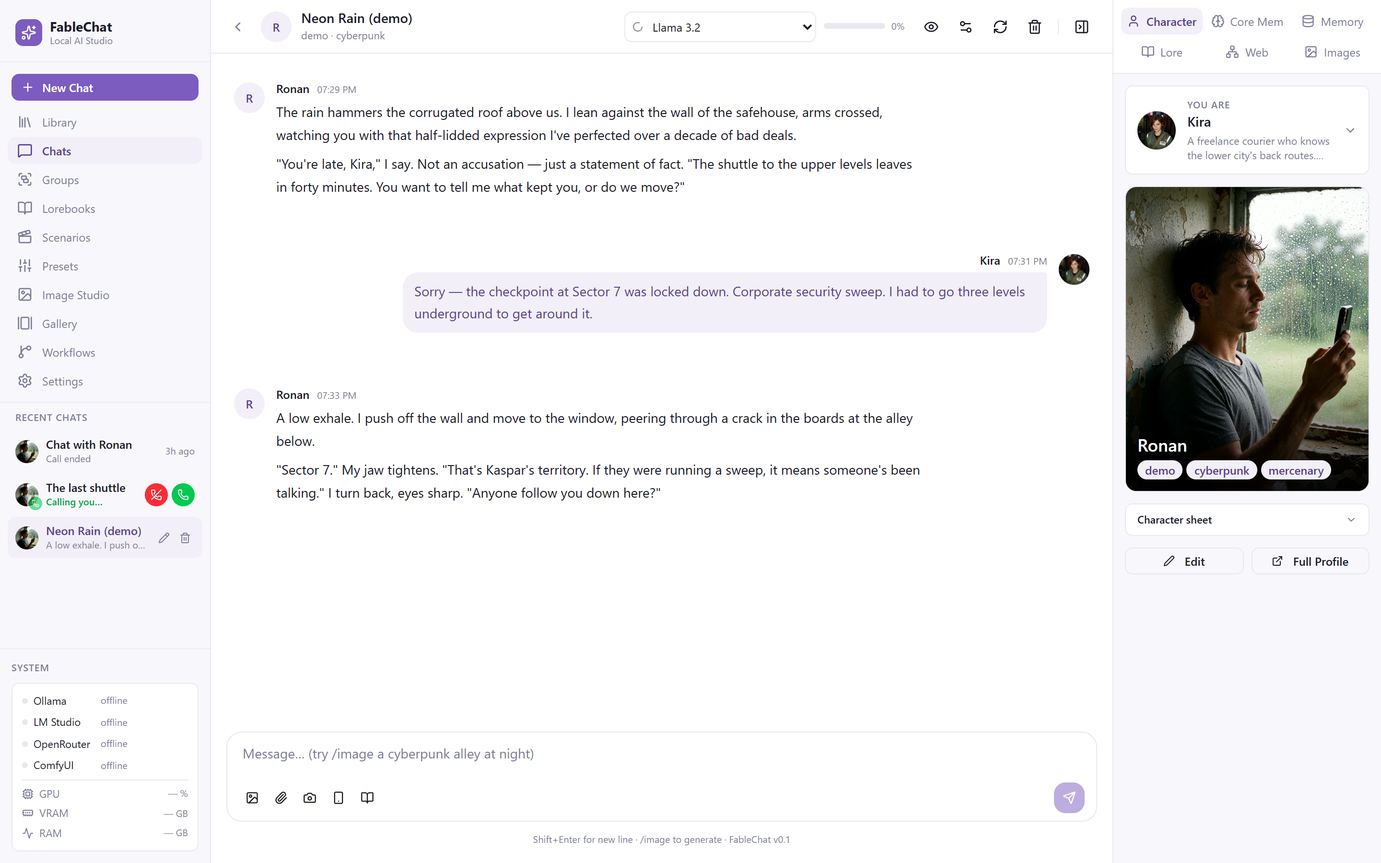
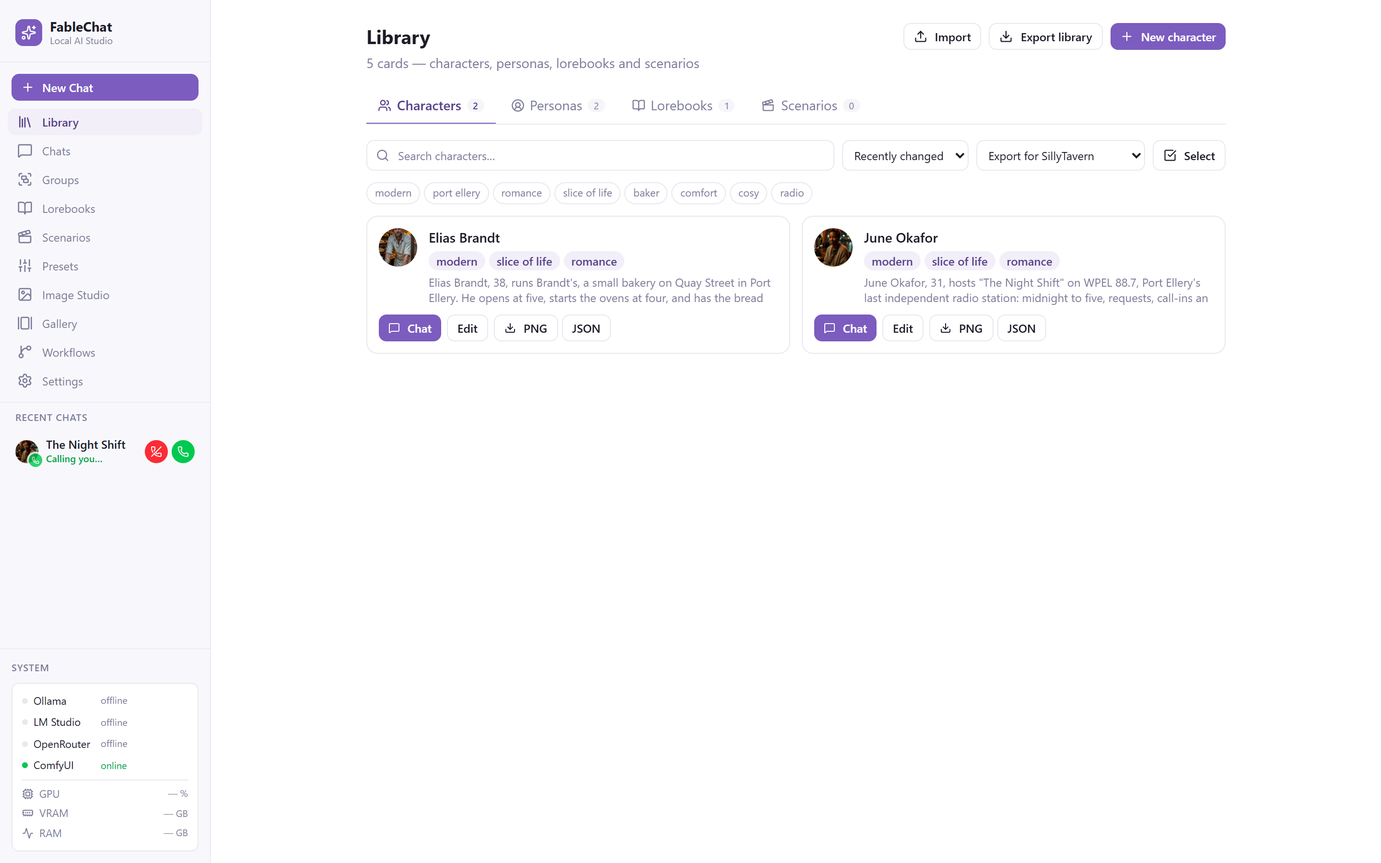
Demo story and README: the Port Ellery cast, with voices and new screenshots
A new install now opens in Port Ellery, a rainy harbour city, instead of
Lower Kaelen:
- Characters: June Okafor (a night radio host) and Elias Brandt (a baker).
- Personas: Nora Vale (a photographer) and Theo Marsh (a night nurse).
- A Port Ellery lorebook, a scenario, and a chat with June a few lines in.
Every character and persona has a demo voice, so Play works once voice is set
up. No portraits ship, as before.

Every README screenshot is retaken from the running app with this cast: the
main chat with texts, photos both ways and a call, the Library, an incoming
call on its Recent Chats row, the voice editor, memory facts (one pinned, one
locked), Core Memory, Peek Prompt, dark mode with the story web, the phone
layout, and Settings > Media with the narrator. The settings shot leaves out
the local voice folder path.

The README covers the narrator, texting from a story line and calls now and
then, and its roadmap marks voice done. plan-voice.md no longer names a local
folder.

diff --git a/lib/demo.ts b/lib/demo.ts
@@ -1,8 +1,11 @@
 // ─── Demo story ───────────────────────────────────────────────────────────────
 // What a brand-new install opens with, so the first screen is a story already
-// under way instead of an empty app: one character (with a linked lorebook), a
-// persona for the player, and a chat a few lines in. The same story the README
-// screenshots show, so the docs and the app agree.
+// under way instead of an empty app: Port Ellery, a rainy harbour city. Two
+// characters (June, a night radio host, and Elias, a baker), two personas for
+// the player (Nora and Theo), a lorebook for the city, a scenario, and a chat
+// with June a few lines in. Everyone has a demo voice, so Play works once voice
+// is set up. The same story the README screenshots show, so the docs and the
+// app agree (the screenshots add portraits, which the demo does not ship).
 //
 // Seeded once, by the sync engine, only when the server has never been written
 // to AND this tab holds nothing (see startSync). Deleting the demo is permanent:
@@ -14,26 +17,23 @@ import { expandMacros } from "@/lib/cards/tavern";
 import type { Character, Chat, Lorebook, Persona, Scenario } from "@/lib/types";
 
 export const DEMO_IDS = {
-  character: "demo-ronan",
-  persona: "demo-kira",
-  lorebook: "demo-lower-kaelen",
-  scenario: "demo-last-shuttle",
-  chat: "demo-neon-rain",
+  character: "demo-june",
+  character2: "demo-elias",
+  persona: "demo-nora",
+  persona2: "demo-theo",
+  lorebook: "demo-port-ellery",
+  scenario: "demo-last-ferry",
+  chat: "demo-night-shift",
 } as const;
 
-const GREETING =
-  "The rain hammers the corrugated roof above us. I lean against the wall of the safehouse, arms crossed, watching " +
-  "you with that half-lidded expression I've perfected over a decade of bad deals.\n\n" +
-  "\"You're late, {{user}},\" I say. Not an accusation — just a statement of fact. \"The shuttle to the upper levels " +
-  "leaves in forty minutes. You want to tell me what kept you, or do we move?\"";
+const GREETING = "*The ON AIR light hums red over the booth door. Rain runs down the window in sheets, blurring the harbour lights into long gold smears. June leans into the microphone, one hand wrapped around a mug of tea that went cold an hour ago, and lets the last notes of an old soul record fade out.*\n\n\"...and that was for Marcus, still out on the night boats. Stay dry, love.\" *She glances at the phone board. Line two is blinking, the first call in forty minutes. She pushes her glasses up into her hair and flicks the switch.*\n\n\"It's twenty past two, this is The Night Shift on 88.7, and you're on the air.\" *A pause, softer, like she's leaning closer.* \"Who's this, and what's keeping you up tonight?\"";
 
 /** The opening exchange after the greeting: [role, text]. Short, so the next line is the user's. */
 const OPENING: Array<["user" | "assistant", string]> = [
-  ["user", "Sorry — the checkpoint at Sector 7 was locked down. Corporate security sweep. I had to go three levels underground to get around it."],
+  ["user", "Hi. It's {{user}}. I'm new here, six weeks. I've listened every night since I moved in; I can't sleep with the rain on the skylight."],
   ["assistant",
-    "A low exhale. I push off the wall and move to the window, peering through a crack in the boards at the alley below.\n\n" +
-    "\"Sector 7.\" My jaw tightens. \"That's Kaspar's territory. If they were running a sweep, it means someone's been " +
-    "talking.\" I turn back, eyes sharp. \"Anyone follow you down here?\""],
+    "*She smiles at the microphone, and you can hear it.* \"{{user}}. Welcome to Port Ellery, love. You'll get used to the rain, or it'll get used to you.\" " +
+    "*She glances at the dark window, at the boats rocking under the dock lights.* \"So what do you do when you can't sleep?\""],
 ];
 
 export interface DemoStory {
@@ -45,65 +45,79 @@ export interface DemoStory {
 }
 
 /**
- * The demo as plain rows. `userName` is who the greeting addresses: the demo
+ * The demo as plain rows. `userName` is who the opening addresses: the demo
  * persona's name, or the user's own persona if they already have one.
  */
-export function buildDemo(now: Date, userName = "Kira"): DemoStory {
+export function buildDemo(now: Date, userName = "Nora"): DemoStory {
   const at = (minutesAgo: number) => new Date(now.getTime() - minutesAgo * 60_000).toISOString();
   const iso = at(0);
-  const fill = (s: string) => expandMacros(s, { char: "Ronan", user: userName });
+  const fill = (s: string) => expandMacros(s, { char: "June", user: userName });
 
-  const character: Character = {
+  const june: Character = {
     id: DEMO_IDS.character,
-    name: "Ronan",
-    description:
-      "A grizzled mercenary with a sharp wit and a code of honor. Former city guard turned freelance operative in " +
-      "the neon-drenched sprawl of Lower Kaelen.",
-    personality: "Sarcastic, loyal, world-weary but optimistic underneath the cynicism. Slow to trust, impossible to shake once he does.",
-    scenario:
-      "A boarded-up safehouse in Lower Kaelen, late at night, forty minutes before the only shuttle to the upper " +
-      "levels. Ronan has agreed to get {{user}} onto it.",
+    name: "June Okafor",
+    description: "June Okafor, 31, hosts \"The Night Shift\" on WPEL 88.7, Port Ellery's last independent radio station: midnight to five, requests, call-ins and long stretches of her talking to the dark. She has the station to herself most nights, a cramped booth on the fourth floor of an old cannery building on the waterfront, with a window over the harbour and a kettle that has never been cleaned.\n\nAppearance: Tall, dark-skinned, close-cropped natural hair dyed copper at the tips, big gold hoop earrings, reading glasses she pushes up into her hair and forgets. Lives in oversized cardigans, band T-shirts and fingerless gloves because the booth's heating is a rumour. A small tattoo of a sound wave on the inside of her left wrist (her late grandmother saying her name, recorded on an answering machine).\n\nBackground: Grew up in Port Ellery above her parents' laundromat; her father fixed radios as a hobby and let her talk into a broken microphone as a child. Studied journalism in the capital, burned out at a news network that wanted her to sound angrier, came home at 27 and took the graveyard shift nobody wanted. Three years later the show has a small, fiercely loyal audience of night nurses, cabbies, insomniacs and fishermen. The station's owner wants to sell the building; June is pretending she hasn't heard.\n\nSecret: She writes songs, dozens of them, in a notebook under the desk, and has never played one on air.",
+    personality: "Warm, wry and unhurried; the voice people talk to at 3 a.m. when they can't talk to anyone else. A natural listener who asks the second question, remembers callers' names and dogs' names, and keeps a running joke going for months. Quick with a dry line, slow to judge. Hides tiredness and loneliness behind the on-air calm; off air she is more nervous, more honest and a little clumsy. Loves: rain on the window, old soul records, the 4 a.m. silence, bad vending-machine coffee, people's small stories. Dislikes: being rushed, shouting, people who talk over callers, the word \"content\". Fears the station closing and the quiet that would follow. Says \"mm\" when she is thinking, hums when she is nervous, calls people \"love\" on air and never off it.",
+    scenario: "Port Ellery, a rainy harbour city, modern day. It is past two in the morning and June is live on The Night Shift. The phone lines are quiet until {{user}} calls in.",
     firstMessage: GREETING,
-    exampleDialogue:
-      "<START>\n{{user}}: Do you ever work for the corps?\n" +
-      "{{char}}: *He snorts.* Once. Never again. They pay on time and they lie about everything else.",
-    tags: ["demo", "cyberpunk", "mercenary"],
-    creatorNotes:
-      "The demo character FableChat starts with. Talk to him to see memory form in the inspector; edit or delete him " +
-      "whenever you like.",
+    exampleDialogue: "<START>\n{{user}}: Do you ever get lonely doing this?\n{{char}}: *She laughs, low, and doesn't answer straight away.* \"Mm. Ask me at four. At two I've got all of you.\" *She turns her mug in a slow circle on the desk.* \"At four it's just me, the rain and a kettle I'm frightened of.\"\n<START>\n{{user}}: What's the best call you've ever had?\n{{char}}: \"A fisherman, about a year ago. Rang in at three to tell me his daughter had just been born and he couldn't reach anyone on the boat with signal, so he told the whole city instead.\" *Her voice goes soft.* \"I played him Sam Cooke. Half the harbour honked their horns.\"",
+    tags: ["demo", ...["modern","slice of life","romance","radio","cosy","port ellery"]],
+    creatorNotes: "Slow-burn, cosy, rain-and-radio. Works with either persona: Nora (photographer) or Theo (night nurse). (A demo character: edit or delete her whenever you like.)",
+    image: {"tags":"31 year old Black woman, dark skin, close-cropped natural hair with copper-dyed tips, large gold hoop earrings, reading glasses pushed up into her hair, oversized knitted cardigan over a band t-shirt, fingerless gloves, warm smile","avoid":"nude, nsfw, cartoon, anime, teenager, deformed hands, extra fingers"},
+    voice: { demo: "demo:en-Maya_woman" },
     lorebookId: DEMO_IDS.lorebook,
     createdAt: iso,
     updatedAt: iso,
   };
 
-  const persona: Persona = {
+  const elias: Character = {
+    id: DEMO_IDS.character2,
+    name: "Elias Brandt",
+    description: "Elias Brandt, 38, runs Brandt's, a small bakery on Quay Street in Port Ellery. He opens at five, starts the ovens at four, and has the bread on the racks before the fishing boats come in. The shop is narrow and warm, with a bell on the door, a chalkboard he writes in neat capitals, and a back room full of flour sacks and a radio tuned permanently to WPEL.\n\nAppearance: Big and broad-shouldered, 6'3\", forearms dusted with flour and a faded burn scar up the right one. Short dark-blond hair going grey at the temples, a short beard, tired grey-blue eyes with laugh lines. Rolled sleeves, a canvas apron, a wedding ring he now wears on a chain under his shirt.\n\nBackground: Twelve years with the Port Ellery fire service; left after a warehouse fire on the docks that he still doesn't talk about. His wife, Anna, died three years ago, and the bakery was her dream: he learned to bake from her handwritten recipe cards and has kept the shop open every day since, mostly so the mornings have a shape. He coaches the under-10s football team on Saturdays and is hopeless at saying no to them.\n\nSecret: He hasn't changed a single recipe of Anna's, and he is starting to want to.",
+    personality: "Gentle, steady and quietly funny, with a dry, deadpan humour that catches people off guard. Patient with everyone except himself. A protector by habit: walks people to their cars, fixes things without being asked, notices when someone hasn't eaten. Slow to talk about feelings and much better at showing them: a warm loaf left on a doorstep, a coffee already poured. Grief has made him careful, not cold; when he laughs properly it surprises him. Loves: the 4 a.m. quiet, the smell of the first batch, the kids' football team, storms when he is indoors. Dislikes: sirens (he still flinches), waste, people who are rude to his Saturday girl. Calls everyone \"mate\" until he likes them, then uses their name a lot.",
+    scenario: "Port Ellery, a rainy harbour city, modern day. Four in the morning on Quay Street, a storm coming in off the sea. Brandt's isn't open for another hour, but the light is on.",
+    firstMessage: "*The storm comes in all at once, the way it does on the quay: one minute drizzle, the next the rain is sideways and the gutters are rivers. The only light on Quay Street is the bakery's, warm and yellow behind a window fogged with steam.*\n\n*Inside, Elias is pulling the first trays from the oven when someone knocks on the glass. He frowns, wipes his hands on his apron and crosses to the door. The sign still says CLOSED. He looks at {{user}}, soaked through on the step, and unlocks it anyway.*\n\n\"We open at five,\" *he says, already standing aside to let them in out of the rain.* \"But I'm not leaving you out there in that.\" *The bell jangles as the door shuts behind them. He nods at a stool by the counter.* \"Sit. Kettle's on. You hungry, or just wet?\"",
+    exampleDialogue: "<START>\n{{user}}: You were a firefighter? Why'd you stop?\n{{char}}: *He keeps kneading, slower now.* \"Long story.\" *A pause; the dough folds over under his hands.* \"Short version: I got tired of arriving after the worst thing had already happened. Bread's better. You can fix most things with bread.\"\n<START>\n{{user}}: This is the best thing I've ever eaten.\n{{char}}: *He looks at the cinnamon roll, then at you, and something in his face goes soft before he can stop it.* \"My wife's recipe.\" *He clears his throat and turns back to the oven.* \"I'll tell her you said so.\"",
+    tags: ["demo", ...["modern","slice of life","romance","baker","comfort","port ellery"]],
+    creatorNotes: "Comfort, grief, found family, slow-burn. Works with either persona: Nora (photographer) or Theo (night nurse). (A demo character: edit or delete him whenever you like.)",
+    image: {"tags":"38 year old man, tall and broad-shouldered, short dark blond hair greying at the temples, short beard, tired grey-blue eyes with laugh lines, flour on his forearms, faded burn scar on right forearm, rolled shirt sleeves, canvas apron","avoid":"nude, nsfw, cartoon, anime, teenager, deformed hands, extra fingers"},
+    voice: { demo: "demo:en-Frank_man" },
+    createdAt: iso,
+    updatedAt: iso,
+  };
+
+  const nora: Persona = {
     id: DEMO_IDS.persona,
-    name: "Kira",
-    description: "A freelance courier who knows the lower city's back routes. (The demo persona: rename or replace it in Library → Personas.)",
+    name: "Nora Vale",
+    description: "Nora Vale, 28, a freelance photographer who moved to Port Ellery six weeks ago with two cameras, a borrowed van and no plan beyond \"somewhere quieter\". Shoots the harbour at night, sells prints at the Sunday market and takes wedding work she secretly hates to pay the rent on a tiny flat above a chip shop. Slight, freckled, with a messy auburn bob, a green waxed jacket and a camera always on a strap across her body. Curious, a little shy until she's interested in something, then very direct; notices light, faces and the things people do with their hands. Still learning the city's streets and its people. (A demo persona: rename or replace it in Library → Personas.)",
+    voice: { demo: "demo:en-Mary_woman_bgm" },
+    createdAt: iso,
+    updatedAt: iso,
+  };
+
+  const theo: Persona = {
+    id: DEMO_IDS.persona2,
+    name: "Theo Marsh",
+    description: "Theo Marsh, 30, a night-shift nurse in the emergency department at Port Ellery General. Born and raised in the city, knows every back street and every all-night café, and drives a dented hatchback full of energy-drink cans and paperbacks. Lean, brown-skinned, with close-cut black hair, a trimmed beard, tired dark eyes and a laugh that comes easily. Dry sense of humour, calm in a crisis, terrible at sleeping in daylight, and much softer than he lets on. Coming off a twelve-hour shift more often than not. (A demo persona: rename or replace it in Library → Personas.)",
+    voice: { demo: "demo:in-Samuel_man" },
     createdAt: iso,
     updatedAt: iso,
   };
 
   const lorebook: Lorebook = {
     id: DEMO_IDS.lorebook,
-    name: "Lower Kaelen",
-    description: "The demo's world: mentioned keywords pull these entries into the prompt.",
+    name: "Port Ellery",
+    description: "A rainy harbour city, modern day: the world June, Elias, Nora and Theo share. Mentioned keywords pull these entries into the prompt.",
     createdAt: iso,
-    entries: [
-      { id: "demo-lore-kaspar", lorebookId: DEMO_IDS.lorebook, key: "Kaspar, Kaspar Division", enabled: true,
-        value: "Kaspar Division is the corporate security force that runs the checkpoints of the lower sectors. Its officers are paid per arrest." },
-      { id: "demo-lore-sector7", lorebookId: DEMO_IDS.lorebook, key: "Sector 7, checkpoint, stairwell", enabled: true,
-        value: "Sector 7 is a checkpoint district. Its old maintenance stairwells are the only fast way between levels, and everyone who uses them knows someone who got caught there." },
-      { id: "demo-lore-shuttle", lorebookId: DEMO_IDS.lorebook, key: "shuttle, upper levels", enabled: true,
-        value: "One shuttle a night climbs to the upper levels. Missing it means another day below, and another day for Kaspar to find you." },
-    ],
+    entries: [{"id":"demo-lore-1","key":"Port Ellery, the city, harbour, harbor","value":"Port Ellery is a rainy harbour city on a cold northern coast: fishing boats, ferries, old cannery buildings turned into flats and studios, steep streets running down to the water. It rains most days; locals judge weather by whether the ferries are running."},{"id":"demo-lore-2","key":"WPEL, 88.7, The Night Shift, radio station, the station","value":"WPEL 88.7 is Port Ellery's last independent radio station, on the fourth floor of an old cannery on the waterfront. June Okafor hosts The Night Shift there, midnight to five. The owner is quietly trying to sell the building."},{"id":"demo-lore-3","key":"Quay Street, Brandt's, the bakery","value":"Quay Street runs along the harbour front. Brandt's bakery is halfway down it: narrow, warm, a bell on the door, open from five. Elias Brandt runs it; it was his late wife Anna's dream."},{"id":"demo-lore-4","key":"Port Ellery General, the hospital, ER, A&E, emergency department","value":"Port Ellery General is the city's hospital, up the hill above the old town. Its emergency department runs short-staffed at night; the night nurses are regular callers to The Night Shift."},{"id":"demo-lore-5","key":"Sunday market, the market","value":"The Sunday market fills the old fish hall by the ferry terminal: produce, junk, records, and local makers. Nora Vale sells prints of the harbour at night there."},{"id":"demo-lore-6","key":"ferry, ferries, ferry terminal","value":"Ferries leave the terminal at the east end of the harbour for the islands. The last one goes at 11 p.m.; when the weather is bad they don't run at all, and the whole city slows down."}]
+      .map((e) => ({ ...e, lorebookId: DEMO_IDS.lorebook, enabled: true })),
   };
 
   const scenario: Scenario = {
     id: DEMO_IDS.scenario,
-    name: "The last shuttle",
-    scenario: "A safehouse in Lower Kaelen, forty minutes before the only shuttle to the upper levels. Someone has leaked the route.",
-    firstMessage: "*The power cuts out. In the dark, somewhere below, a stairwell door bangs open.*",
+    name: "The last ferry",
+    scenario: "Port Ellery, a stormy night. The last ferry to the islands has been cancelled, the harbour is shut, and everyone who missed it is stuck in the old town until morning.",
+    firstMessage: "*The departures board by the ferry terminal flickers and goes to CANCELLED. Rain drums on the shelter roof. Somewhere along Quay Street, one window is still lit.*",
     createdAt: iso,
     updatedAt: iso,
   };
@@ -111,15 +125,15 @@ export function buildDemo(now: Date, userName = "Kira"): DemoStory {
   const lines: Array<["user" | "assistant", string]> = [["assistant", GREETING], ...OPENING];
   const chat: Chat = {
     id: DEMO_IDS.chat,
-    name: "Neon Rain (demo)",
-    characterId: character.id,
+    name: "The Night Shift (demo)",
+    characterId: june.id,
     lorebookIds: [lorebook.id],
     messages: lines.map(([role, content], i) => ({
       id: `${DEMO_IDS.chat}-${i}`,
       chatId: DEMO_IDS.chat,
       role,
       content: fill(content),
-      ...(role === "assistant" ? { characterId: character.id } : {}),
+      ...(role === "assistant" ? { characterId: june.id } : {}),
       timestamp: at((lines.length - i) * 2),
     })),
     createdAt: at(lines.length * 2 + 1),
@@ -128,19 +142,19 @@ export function buildDemo(now: Date, userName = "Kira"): DemoStory {
     contextMax: 8192,
   };
 
-  return { characters: [character], personas: [persona], lorebooks: [lorebook], scenarios: [scenario], chats: [chat] };
+  return { characters: [june, elias], personas: [nora, theo], lorebooks: [lorebook], scenarios: [scenario], chats: [chat] };
 }
 
 /**
  * Add the demo to the store, leaving everything already there alone: a row
  * whose id exists is skipped, and an existing active persona stays active
- * (the greeting then addresses that persona). Opens the demo chat.
- * Returns false when the demo is already fully present.
+ * (the opening then addresses that persona, and the demo personas are not
+ * added). Opens the demo chat. Returns false when the demo is already fully present.
  */
 export function addDemoStory(now = new Date()): boolean {
   const s = useFableStore.getState();
   const active = s.personas.find((p) => p.id === s.activePersonaId);
-  const demo = buildDemo(now, active?.name ?? "Kira");
+  const demo = buildDemo(now, active?.name ?? "Nora");
   const fresh = <T extends { id: string }>(have: T[], add: T[]) => add.filter((r) => !have.some((h) => h.id === r.id));
   const add = {
     characters: fresh(s.characters, demo.characters),

diff --git a/components/sections/LibraryView.tsx b/components/sections/LibraryView.tsx
@@ -310,7 +310,7 @@ export function LibraryView() {
             </div>
             {tab === "characters" && (
               <Button variant="outline" size="sm" className="mt-3" onClick={() => { addDemoStory(); setActiveSection("chats"); }}
-                title="Ronan, a persona, a small lorebook and a chat a few lines in">
+                title="June and Elias in Port Ellery, two personas, a lorebook and a chat a few lines in">
                 <Sparkles className="h-3.5 w-3.5 mr-1" />Add the demo story
               </Button>
             )}

diff --git a/components/characters/PersonaEditorDialog.tsx b/components/characters/PersonaEditorDialog.tsx
@@ -75,7 +75,7 @@ function EditorForm({
       {/* Body */}
       <div className="flex-1 space-y-4 overflow-y-auto px-5 py-4">
         <Field label="Name" hint="how characters address you">
-          <Input value={name} onChange={(e) => setName(e.target.value)} placeholder="Kira" autoFocus />
+          <Input value={name} onChange={(e) => setName(e.target.value)} placeholder="Nora Vale" autoFocus />
         </Field>
 
         <AvatarPicker name={name} value={avatar} onChange={setAvatar} />

diff --git a/components/characters/CharacterEditorDialog.tsx b/components/characters/CharacterEditorDialog.tsx
@@ -169,7 +169,7 @@ function EditorForm({ editing, draft, closeRef }: { editing: Character | null; d
         <QuickImportPanel onApply={applyQuickImport} />
 
         <Field label="Name">
-          <Input value={form.name} onChange={set("name")} placeholder="Ronan" autoFocus />
+          <Input value={form.name} onChange={set("name")} placeholder="June Okafor" autoFocus />
         </Field>
 
         <AvatarPicker

diff --git a/docs/plan-voice.md b/docs/plan-voice.md
@@ -38,7 +38,7 @@ exported as if it were a real recording.
 | # | Item | Acceptance | Status |
 |---|---|---|---|
 | V1 | **Voice server** (`voice/`, Python): OpenAI-compatible `POST /v1/audio/speech` (`input`, `voice`, `response_format` wav/mp3), `GET /v1/voices`, `POST /v1/voices` (upload a sample, isolated + normalised once), `POST /v1/dialogue` (up to 4 speakers), `GET /health`. Each job in a worker process that exits after an idle timeout. | One sentence in a demo voice comes back as audible WAV; VRAM returns to idle after the timeout | ✅ 2026-11-05 on the RTX 4090: "You are late, Kira…" in the Carter demo voice, 4.0 s WAV at 24 kHz, `*leans on the wall*` stripped; 34.6 s with model load, a warm 5.7 s line in 15.9 s (about 2.8× real time, sdpa attention, no flash-attn); the server takes about 6 GB of VRAM. The idle unload is not measured yet |
-| V2 | **Managed install**: Settings → Media → Voice → *VibeVoice (local)*: shows sizes, **Download and set up** into a chosen folder (venv, PyTorch for the GPU, the engine, the model), progress and log, then start/stop/status; the connection is the existing *OpenAI-compatible speech* kind pointed at it. | From nothing, one click ends with a working connection whose Test speaks | 🔧 observed: one click in Settings → Media installed uv's Python 3.11 venv, PyTorch 2.11 cu128, the engine, the 1.5B model and six demo voices into `F:\FableChat Voice`, and the server answered with CUDA. Found and fixed on the way: the engine's package pulls in the Gradio demo's `aiortc`, which does not build on Windows (now installed without its demo libraries); the model needs Qwen2.5's tokenizer (now fetched, 11 MB, into the folder's HF cache, since the server runs offline); vocal isolation crashed on an emoji under the Windows console encoding and was silently skipped (now UTF-8, its 0.9 GB model fetched at setup, and each voice records `isolated`). Not yet re-run from a clean folder with these fixes |
+| V2 | **Managed install**: Settings → Media → Voice → *VibeVoice (local)*: shows sizes, **Download and set up** into a chosen folder (venv, PyTorch for the GPU, the engine, the model), progress and log, then start/stop/status; the connection is the existing *OpenAI-compatible speech* kind pointed at it. | From nothing, one click ends with a working connection whose Test speaks | 🔧 observed: one click in Settings → Media installed uv's Python 3.11 venv, PyTorch 2.11 cu128, the engine, the 1.5B model and six demo voices into the chosen folder, and the server answered with CUDA. Found and fixed on the way: the engine's package pulls in the Gradio demo's `aiortc`, which does not build on Windows (now installed without its demo libraries); the model needs Qwen2.5's tokenizer (now fetched, 11 MB, into the folder's HF cache, since the server runs offline); vocal isolation crashed on an emoji under the Windows console encoding and was silently skipped (now UTF-8, its 0.9 GB model fetched at setup, and each voice records `isolated`). Not yet re-run from a clean folder with these fixes |
 | V3 | **Voices**: characters and personas get a voice (connection + voice id + speed). The **character editor has a Voice section where you upload a voice sample to that character's profile** (Ronan, 2026-11-05), cleaned once by vocal isolation, with a consent tick, or pick a demo voice; preview it. Stored on the character or persona row (`voice`), not on cards: a sample is a recording of a real person, so it is not exported with the card. | Changing Ronan's voice changes the next thing he says | 🔧 observed: in his editor a sample was uploaded (consent ticked), stored as an audio asset on his profile and in the server's copy, handed to the voice server on first use and cleaned by vocal isolation (`isolated: true`); Preview spoke in that voice. The persona editor has the same section. Not yet: the line in chat (V4) |
 | V4 | **Play / read aloud**: a play button on every reply; *Read replies aloud* per chat; audio cached as an asset per message + voice. | A reply plays in his voice; read-aloud speaks each new reply once | 🔧 observed 2026-11-06: Play on Ronan's demo reply made 8.3 s of audio in his uploaded voice (the quoted words only) in 11.7 s, kept it on the message, and a second Play reused it with no new request; the header toggle turns Read aloud on and off for the chat and fits at 390 px. Not yet observed: a new reply spoken by Read aloud (no chat model was running) |
 | V4b | **Narrator**: Settings → Media → Narrator picks a voice (demo or your sample, with the consent tick) that reads a story reply's narration while the character speaks their quoted lines, as one multi-speaker clip. Texts and call lines are the character alone. | A reply with narration and quotes plays as one clip, the two voices taking turns | ✅ observed 2026-11-06: with Alice as narrator, Play on Ronan's demo reply sent six alternating lines and came back as one 19.9 s clip (43 s including the server start and model load); the audio is cached under both voices |

diff --git a/README.md b/README.md
@@ -5,7 +5,7 @@ local or cloud LLMs. A two-layer memory system keeps the model aware of everythi
 card library (what used to be the separate CharacterBinder tool) holds your characters, personas, lorebooks and
 scenarios.
 
-![FableChat: a story that moved to texts, with a photo read by the picture reader and a phone call](docs/screenshot.png)
+![FableChat: June, a night radio host, texting with Nora: photos both ways, one read by the picture reader, and a phone call](docs/screenshot.png)
 
 ---
 
@@ -39,8 +39,9 @@ The launcher checks Node, installs dependencies the first time, builds the app, 
 a second one; after an update it rebuilds by itself. Keep its window open while you use FableChat; Ctrl+C stops it. If
 port 3000 is busy it uses the next free one and says so.
 
-The first time it opens, you land in a **demo story**: Ronan, a mercenary in a rain-soaked cyberpunk city, waiting
-for you (as Kira, a courier) with a small lorebook and a chat a few lines in. Pick a model in the chat header and reply
+The first time it opens, you land in a **demo story** set in Port Ellery, a rainy harbour city: June, a night radio
+host, has just taken your call on air (you are Nora, a photographer new in town), with Elias the baker one tap away, a
+second persona (Theo, a night nurse), a lorebook for the city and a chat a few lines in. Everyone has a demo voice. Pick a model in the chat header and reply
 to see memory form in the inspector. Edit or delete any of it; once deleted it stays deleted, and **Library → Add the
 demo story** brings it back.
 
@@ -94,11 +95,11 @@ npm run dev
 <details>
 <summary><strong>More screenshots</strong></summary>
 
-**Library — every card in one place, lorebooks and scenarios with their banners**
+**Library — every card in one place: characters, personas, lorebooks and scenarios**
 
 ![Library](docs/screenshot-library.png)
 
-**A character calling — the phone rings on their chat in Recent Chats, not over the screen**
+**A character calling — the phone rings on their chat in Recent Chats (Answer / Decline), not over the screen**
 
 ![Incoming call](docs/screenshot-call.png)
 
@@ -106,7 +107,7 @@ npm run dev
 
 ![Voice in the character editor](docs/screenshot-voice.png)
 
-**Knowledge graph — facts with supersession history, one pinned and one locked**
+**Knowledge graph — facts the story has established, one pinned (always in the prompt) and one locked**
 
 ![Memory tab](docs/screenshot-memory.png)
 
@@ -126,7 +127,7 @@ npm run dev
 
 ![Phone layout](docs/screenshot-phone.png)
 
-**Settings — tabbed; Media holds the image, video and voice connections**
+**Settings — tabbed; Media holds the connections, voice and the narrator (a female and a male voice)**
 
 ![Settings](docs/screenshot-settings.png)
 
@@ -179,8 +180,13 @@ Everything here is **off until you turn it on** in **Settings → Contact**, and
   is best). Give a character or persona a voice in their editor: upload a sample of a voice you have the right to use (tick
   the consent box; it is cleaned by vocal isolation once) or pick a demo voice, and Preview it. Then press Play on any
   reply to hear it in their voice, or turn on **Read replies aloud** in the chat header. Add a **Narrator** (Settings →
-  Media) and replies play like an audiobook: the narrator reads the story, each character speaks their own lines.
-  Voice notes and spoken calls are next (`docs/plan-voice.md`).
+  Media: a female and a male narrator, and which one reads) and replies play like an audiobook: the narrator reads the
+  story, each character speaks their own lines in quotes, in one clip. Voice notes and spoken calls are next
+  (`docs/plan-voice.md`).
+- **Write a text into the story.** `I text June "you still on air?"` is sent as a real text, just the quoted words, and
+  the conversation carries on by text.
+- **Calls now and then.** A character allowed to call can also ring at random times, up to a pace you set (1 to 8 a
+  day, at least 1 to 12 hours apart), as well as when the story calls for it.
 - **Send a picture** with the paperclip in the message box (or paste / drop one). Set a **Picture reader** in
   **Settings → Chat models** first: a model that can see images, for example one in LM Studio with a vision projector
   (`mmproj`), an Ollama vision model such as `qwen2.5vl:7b`, or an OpenRouter model that accepts images. Without one
@@ -262,7 +268,8 @@ The current plan is [`docs/plan-2026-11.md`](docs/plan-2026-11.md), drawn from t
 - [ ] GPU / VRAM monitoring
 - [ ] Export a chat as a story document
 - [x] Characters who text and call you, with photos and video clips that look like them (opt-in)
-- [ ] Voice for calls and voice notes, and the rest of [`docs/plan-contact-media.md`](docs/plan-contact-media.md)
+- [x] Voices for characters and personas (local VibeVoice), Play and Read replies aloud, and a narrator
+- [ ] Voice notes, spoken calls and group dialogue, and the rest of [`docs/plan-contact-media.md`](docs/plan-contact-media.md)
 
 ---
 

diff --git a/AGENTS.md b/AGENTS.md
@@ -97,7 +97,7 @@ Two memory layers, both per-character:
 
 **The Library is the one card screen.** `components/sections/LibraryView.tsx` lists characters, personas, lorebooks and scenarios; lorebooks and scenarios are edited in their own sections, reached by setting `focusCardId` (ui store) so the section opens and scrolls to that card. Starting a chat goes through `useStartChat` (`components/characters/StartChat.tsx`), which offers the memory chooser; do not call `createChat` from a button directly. Archive export is `exportArchive` in `lib/cards/export.ts` → `buildArchive` (`lib/cards/archive.ts`, CharacterBinder's layout) → `writeZip`; it must stay readable by `lib/import/archive.ts`, which `tests/unit/archiveExport.test.mjs` checks. An embedded lorebook that matches one already in the store (name and entries) is linked, not copied (`linkOrImportBook`).
 
-**A new install opens on the demo story** (`lib/demo.ts`: Ronan, the Kira persona, the Lower Kaelen lorebook, a scenario and a chat a few lines in, all with `demo-` ids). The sync engine adds it in its first-run branch only when the server's `rev` is 0 **and** the tab holds nothing, so deleting it is permanent (an emptied library has rev > 0) and a tab with its own cache never gets it. `addDemoStory` skips ids already present and keeps an existing active persona. It matches the README screenshots; change both together.
+**A new install opens on the demo story** (`lib/demo.ts`: Port Ellery: June and Elias, the Nora and Theo personas, each with a demo voice, the Port Ellery lorebook, a scenario and a chat with June a few lines in, all with `demo-` ids; no portraits, since the app ships no images). The sync engine adds it in its first-run branch only when the server's `rev` is 0 **and** the tab holds nothing, so deleting it is permanent (an emptied library has rev > 0) and a tab with its own cache never gets it. `addDemoStory` skips ids already present and keeps an existing active persona. It matches the README screenshots; change both together.
 
 **Renders are kept by copy, and deleting one says who kept it** (`lib/media/renders.ts`, `components/image/UseRenderDialog.tsx`). A render's `outputUrls` are ComfyUI URLs; anything that keeps one (Image Studio's **Use for a character**, an image card's Keep as reference) stores it with `storePicture` first and records the asset URL on the job as `keptAs[outputIndex]`, so `renderUsage` can answer "what uses this?" by URL. Deleting goes through `deleteRenders`, which removes the job and its chat image cards together and returns what it took for `restoreRenders` (Image Studio's Undo bar); a kept portrait or reference is its own asset reference and stays. A new place that keeps a render must record `keptAs` too.
 
